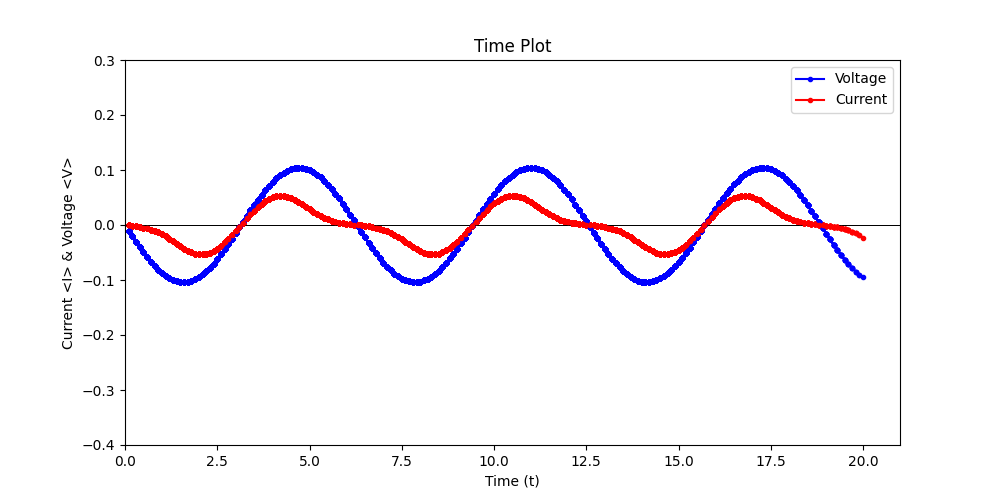
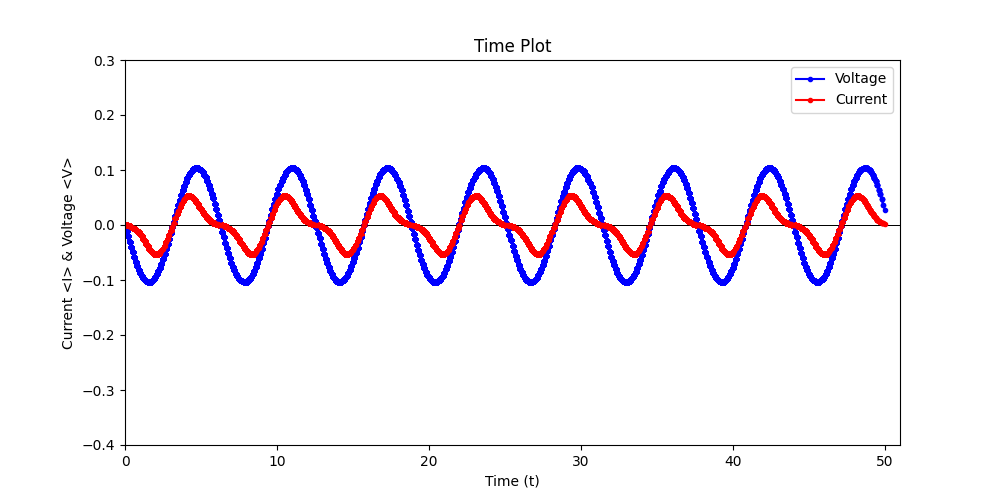
Implemented IV-plot for circuit of quantum memristor

diff --git a/q_memristor/circuits/memristor_dynamic.py b/q_memristor/circuits/memristor_dynamic.py
@@ -1,7 +1,12 @@
+from matplotlib import pyplot as plt
 from qiskit import Aer, execute, QuantumCircuit, QuantumRegister, ClassicalRegister
 from qiskit.circuit.library import RYGate
 from scipy.integrate import quad
 import numpy as np
+
+from q_memristor.circuits import iv_plot_circuit
+from q_memristor.numerical.num_memristor import memristor
+from q_memristor.numerical.operators import pauli_y2
 
 """
     Simulation of dynamic quantum memristor 
@@ -15,112 +20,159 @@ class IBMQSimulator:
 
     def execute_circuit(self, circ, shots=50000):
         sim = Aer.get_backend(self.backend)
-        job = execute(circ, sim, shots=shots)
+        job = execute(circ, sim, shots=shots, memory=True)
         result = job.result()
-        cnts = result.get_counts(circ)
-        return cnts
+        # print(result.get_memory())
+        # cnts = result.get_counts(circ)
+        # return cnts
+        return result.get_memory()
 
 
-# TODO: check correct implementation of decay rate function
 def gamma(ts):
     y0 = 0.2
     w = 1
     return y0 * (1 - np.sin(np.cos(w * ts)))
 
 
-# TODO: check correct implementation of k function
 def k(ts_next, ts):
     integrand = lambda t_prime: gamma(t_prime)
     integral_result, _ = quad(integrand, ts, ts_next)
     return -integral_result / 2
 
 
-# Time-steps
-eps = 0.1
-tmax = 1
-t = np.arange(0, tmax, eps)
+if __name__ == '__main__':
 
-# SIMULATION PARAMETERS
-# TODO: determine correct parameters for the simulation
-# a and b are the parameters used in the pure state used to initialize the memristor
-#
-# Based on Fig. 2 of the paper:
-#   y0 = 0.2 or 0.02
-#   w = 1
-a = np.pi / 4
-b = np.pi / 5
-y0 = 0.2
-w = 1
-theta1 = np.pi
-phi1 = np.pi
-lambda1 = np.pi
-theta2 = np.pi
-phi2 = np.pi
-lambda2 = np.pi
+    # Time-steps
+    eps = 0.1
+    tmax = 1
+    t = np.arange(0, tmax, eps)
 
-pure_state = [np.cos(a), np.sin(a) * np.exp(1j * b)]
-zero_state = [1, 0]
+    # SIMULATION PARAMETERS
+    # TODO: determine correct parameters for the simulation
+    # a and b are the parameters used in the pure state used to initialize the memristor
+    #
+    # Based on Fig. 2 of the paper:
+    #   y0 = 0.2 or 0.02
+    #   w = 1
+    a = np.pi / 4
+    b = np.pi / 5
+    y0 = 0.2
+    w = 1
+    theta1 = np.pi
+    phi1 = np.pi
+    lambda1 = np.pi
+    theta2 = np.pi
+    phi2 = np.pi
+    lambda2 = np.pi
 
-# REGISTERS OF THE CIRCUIT
-# Q_sys = memristor
-Q_env = QuantumRegister(len(t), 'Q_env')
-Q_sys = QuantumRegister(1, 'Q_sys')
-C = ClassicalRegister(1, 'C')
+    pure_state = [np.cos(a), np.sin(a) * np.exp(1j * b)]
+    zero_state = [1, 0]
 
-# Create the quantum circuit
-circuit = QuantumCircuit(Q_env, Q_sys, C)
+    # REGISTERS OF THE CIRCUIT
+    # Q_sys = memristor
+    Q_env = QuantumRegister(len(t), 'Q_env')
+    Q_sys = QuantumRegister(1, 'Q_sys')
+    C = ClassicalRegister(1, 'C')
 
-# INITIALIZATION PROCESS
-# circuit.u(theta1, phi1, lambda1, Q_sys)
-circuit.initialize(pure_state, Q_sys)
-initial_state = [1] + [0] * (2 ** len(Q_env) - 1)
-circuit.initialize(initial_state, Q_env)
+    # Create the quantum circuit
+    circuit = QuantumCircuit(Q_env, Q_sys, C)
 
-# EVOLUTION PROCESS
-for i in range(len(t) - 1):
-    print('Time-step: ', t[i])
+    # INITIALIZATION PROCESS
+    # circuit.u(theta1, phi1, lambda1, Q_sys)
+    circuit.initialize(pure_state, Q_sys)
+    initial_state = [1] + [0] * (2 ** len(Q_env) - 1)
+    circuit.initialize(initial_state, Q_env)
 
-    theta = np.arccos(np.exp(k(t[i + 1], t[i])))
-    print('Theta: ', theta)
+    # EVOLUTION PROCESS
+    for i in range(len(t) - 1):
+        print('Time-step: ', t[i])
 
-    evol_qc = QuantumCircuit(Q_env, Q_sys, name='evolution')
-    # Implementation of controlled-RY (cry) gate
-    cry = RYGate(theta).control(1)
-    # Apply cry gate to each timestep of the evolution
-    for x in range(len(t)):
-        evol_qc.append(cry, [Q_sys, Q_env[len(t) - 1 - x]])
-        evol_qc.cnot(Q_env[len(t) - 1 - x], Q_sys)
+        theta = np.arccos(np.exp(k(t[i + 1], t[i])))
+        print('Theta: ', theta)
 
-    all_qbits = Q_env[:] + Q_sys[:]
-    circuit.append(evol_qc.to_instruction(), all_qbits)
+        evol_qc = QuantumCircuit(Q_env, Q_sys, name='evolution')
+        # Implementation of controlled-RY (cry) gate
+        cry = RYGate(theta).control(1)
+        # Apply cry gate to each timestep of the evolution
+        for x in range(len(t)):
+            evol_qc.append(cry, [Q_sys, Q_env[len(t) - 1 - x]])
+            evol_qc.cnot(Q_env[len(t) - 1 - x], Q_sys)
 
-# MEASUREMENT PROCESS
-# first parameter = 1 = qbit on which the measurement takes place
-# second parameter = 2 = classical bit to place the measurement result in
-circuit.u(theta2, phi2, lambda2, Q_sys)
-circuit.measure(Q_sys, C)
+        all_qbits = Q_env[:] + Q_sys[:]
+        circuit.append(evol_qc.to_instruction(), all_qbits)
 
-# UNCOMMENT TO DISPLAY CIRCUIT
-# print(circuit.draw())
-# print(circuit.decompose().draw())
+    # MEASUREMENT PROCESS
+    # first parameter = 1 = qbit on which the measurement takes place
+    # second parameter = 2 = classical bit to place the measurement result in
+    circuit.u(theta2, phi2, lambda2, Q_sys)
+    circuit.measure(Q_sys, C)
 
-# Save image of final circuit
-circuit.decompose().draw('mpl', filename='dynamic_circuit.png')
+    # UNCOMMENT TO DISPLAY CIRCUIT
+    # print(circuit.draw())
+    # print(circuit.decompose().draw())
 
-# Execute the circuit using the simulator
-simulator = IBMQSimulator()
-counts = simulator.execute_circuit(circuit)
+    # Save image of final circuit
+    circuit.decompose().draw('mpl', filename='dynamic_circuit.png')
 
-print('Simulator Measurement: ', counts)
-# Example Simulator Measurement:  {'1': 16, '0': 1008}
-# 1 --> obtained 16 times
-# 0 --> obtained 1008 times
+    # Execute the circuit using the simulator
+    simulator = IBMQSimulator()
+    counts = simulator.execute_circuit(circuit)
 
-# EXPECTATION VALUES
-num_shots = sum(counts.values())
-expectation_values = {}
+    print('Simulator Measurement: ', counts)
+    # Example Simulator Measurement:  {'1': 16, '0': 1008}
+    # 1 --> obtained 16 times
+    # 0 --> obtained 1008 times
 
-for register in counts:
-    expectation_values[register] = counts[register] / num_shots
+    # EXPECTATION VALUES
+    # num_shots = sum(counts.values())
+    # expectation_values = {}
+    #
+    # for register in counts:
+    #     expectation_values[register] = counts[register] / num_shots
+    #
+    # print("Expectation values:", expectation_values, '\n')
 
-print("Expectation values:", expectation_values, '\n')
+    # Time-steps
+    eps = 0.1
+    tmax = 50000.1
+    t = np.arange(0, tmax, eps)
+
+    # Simulation parameters
+    a = np.pi / 4
+    b = np.pi / 5
+    m = 1
+    h = 1
+    w = 1
+    y0 = 0.4
+    amplitude = 1
+    ang_freq = w  # angular frequency = w
+
+    mem = memristor(y0, w, h, m, a, b)
+
+    angle = np.arccos(np.exp(mem.k1(0)))  # phase angle
+
+    pure_state = np.array([np.cos(a), np.sin(a) * np.exp(1j * b)], dtype=complex)
+
+    # V = sinusoidal time dependence
+    V = []
+
+    # Initialize V_0 and I_0
+    V.append(-(1 / 2) * np.sqrt((m * h * w) / 2) * mem.exp_value(pauli_y2, pure_state))
+
+    iv_plt = iv_plot_circuit.IVplot()
+
+    int_array = np.array([int(outcome, 2) for outcome in counts])
+
+    for i in range(1, 50000):
+        # angle = np.arccos(np.exp(mem.k1(t[i])))
+        # v_val = amplitude * np.sin(ang_freq * t[i] + angle)
+        v_val = V[0] * np.sin(w * t[i])
+        V.append(v_val)
+        # iv_plt.update(int_array[i], V[i])
+
+    plt.scatter(V, int_array, c=int_array, cmap='viridis')
+    plt.xlabel('Voltage')
+    plt.ylabel('Output Current')
+    plt.title('IV Plot with Binary Output')
+    plt.show()
+    # iv_plt.save_plot()

diff --git a/q_memristor/numerical/main.py b/q_memristor/numerical/main.py
@@ -1,13 +1,13 @@
 from q_memristor.numerical.operators import *
-from num_memristor import memristor
 from q_memristor.plots import iv_plot, time_plot
+from num_memristor import memristor
 import numpy as np
 
 
 if __name__ == '__main__':
     # Time-steps
     eps = 0.1
-    tmax = 100.1
+    tmax = 50.1
     t = np.arange(0, tmax, eps)
 
     # Simulation parameters
@@ -23,11 +23,6 @@ if __name__ == '__main__':
     mem = memristor(y0, w, h, m, a, b)
 
     angle = np.arccos(np.exp(mem.k1(0)))    # phase angle
-
-    # Plots types:
-    #   - 'iv' = IV plot
-    #   - 't' = time plot
-    plot_type = 't'
 
     pure_state = np.array([np.cos(a), np.sin(a) * np.exp(1j * b)], dtype=complex)
 
@@ -48,10 +43,8 @@ if __name__ == '__main__':
     t_plt = time_plot.Tplot()
 
     for i in range(1, len(t)):
-        # I is evaluated correcty however there is an error with the update of the voltage V at each iteration
         # angle = np.arccos(np.exp(mem.k1(t[i])))
         # v_val = amplitude * np.sin(ang_freq * t[i] + angle)
-        # V.append(V[0]*np.cos(w*t[i]))
         v_val = V[0]*np.sin(w*t[i])
         V.append(v_val)
         I.append(mem.gamma(t[i]) * V[i])

diff --git a/q_memristor/circuits/iv_plot_circuit.py b/q_memristor/circuits/iv_plot_circuit.py
@@ -2,7 +2,7 @@ import matplotlib.pyplot as plt
 
 
 class IVplot:
-    def __init__(self, v0, i0):
+    def __init__(self):
         self.fig, self.ax = plt.subplots(figsize=(6, 5))
         # self.ax.set_xlim(-1.5, 1.5)
         # self.ax.set_ylim(-1.0, 1.0)
@@ -10,8 +10,6 @@ class IVplot:
         self.ax.set_ylim(-0.2, 0.2)
         self.ax.axhline(0, color='black', linewidth=0.5)
         self.ax.axvline(0, color='black', linewidth=0.5)
-        self.v0 = v0
-        self.i0 = i0
         self.xs = []
         self.ys = []
         self.dots, = self.ax.plot([], [], 'o', markersize=3)
@@ -25,8 +23,8 @@ class IVplot:
         # i = -i / self.i0
         self.xs.append(v)
         self.ys.append(-i)
-        self.xs = self.xs[-1:]
-        self.ys = self.ys[-1:]
+        # self.xs = self.xs[-1:]
+        # self.ys = self.ys[-1:]
         # Uncomment the next line if we want to see only one dot at each update
         # self.ax.cla()
         # self.ax.set_xlim(-1.5, 1.5)
